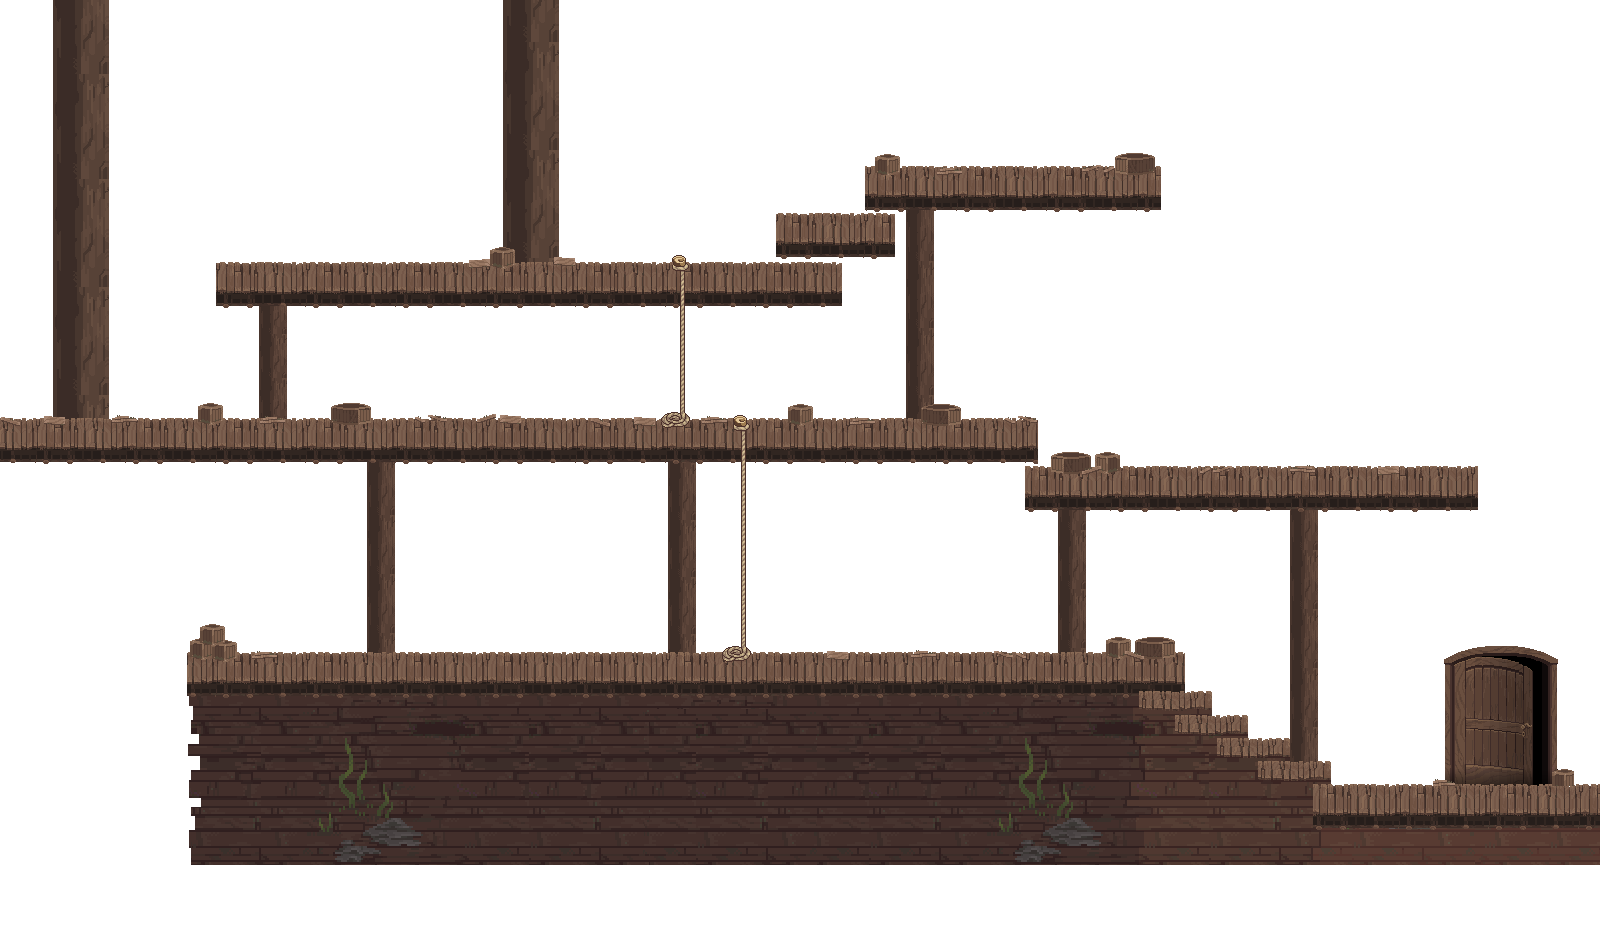
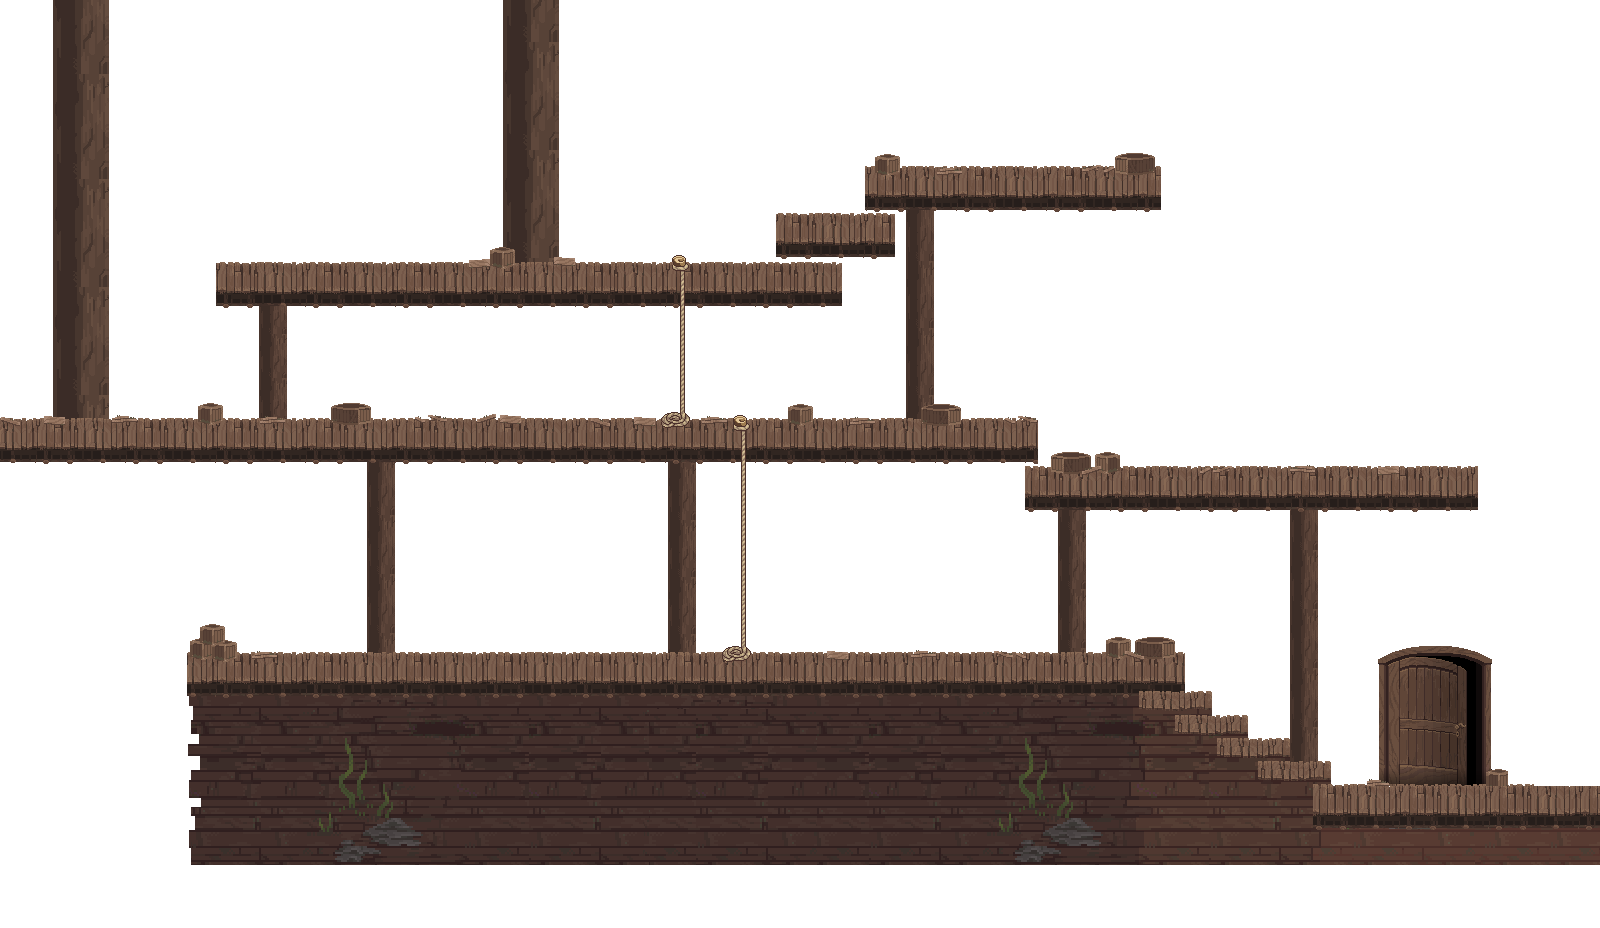
update: game patch 2.3.507 data, assets, and 11th character support
- Spelunking: fix Amber gain to apply full Litterfish (w7a7) card bonus (5%/lv cap 40 + 10%/lv cap 100)
- Dashboard: new-character alert now covers the 11th slot (5000 total levels)
- Sigils: drop redundant hardcoded character cap
- Patch notes entry for 3.3.47 / game 2.3.507
- Regenerated website-data and assets (Dreadnaught Chamber, vial #85, nametag replicas 38-40)

Changed region(s): [[0.8438, 0.6875, 1.0, 0.8438]]

diff --git a/data/patch-notes.js b/data/patch-notes.js
@@ -4,12 +4,26 @@ import React from 'react';
 /* eslint-disable react/jsx-key */
 export const patchNotes = [
   {
+    'ver': '3.3.47',
+    'gameVer': '2.3.507',
+    'date': '29/05/2026',
+    'features': [
+      'Updated the website with version 2.3.507 data and assets',
+      '11th character: the new character slot (unlocks at 5000 total levels) now appears in the "new character available" dashboard alert',
+      'World 6 Dreadnaught Chamber: new map with the Dreadnaught Captain boss and the Abacus Frog, now tracked in the Death Note and Grimoire',
+      'Alchemy: new Ship in a Bottle vial',
+      'Tournament: new Nametag Replicas'
+    ],
+    'fixes': []
+  },
+  {
     'ver': '3.3.46',
     'gameVer': '2.3.505',
     'date': '29/05/2026',
     'features': [
-      <Typography>Guild Tracking is now live — I started tracking the top Legends of Idleon guilds, with snapshots taken every hour. Check it out under <Link
-        href={'https://idleontoolbox.com/guilds'}>Guilds</Link></Typography>,
+      <Typography>Guild Tracking is now live — I started tracking the top Legends of Idleon guilds, with snapshots taken
+        every hour. Check it out under <Link
+          href={'https://idleontoolbox.com/guilds'}>Guilds</Link></Typography>,
       'Browse guilds: search and sort the top guilds by rank, GP, level, or member count; pin your favorites (and your own guild) to keep them at the top',
       'Guild detail pages: this week\'s GP progress charted, with a comparison to the same point last week',
       'Guild detail pages: 30-day guild rank history',
@@ -18,7 +32,7 @@ export const patchNotes = [
       'Guild detail pages: roster changes — who joined and who left this week',
       'Guild Ecosystem: a zoomed-out view of the whole ecosystem — total and active guilds, weekly GP output, and member health across all of Idleon, tracked week over week',
       'Weekly GP resets every Saturday at 21:00 UTC — the guilds page shows a live countdown to the next reset, and "this week" everywhere lines up with that boundary',
-      'Heads-up: data collection only started midway through last week, so "vs last week" comparisons may look inflated for now — they\'ll settle down once there\'s a full week of history to compare against',
+      'Heads-up: data collection only started midway through last week, so "vs last week" comparisons may look inflated for now — they\'ll settle down once there\'s a full week of history to compare against'
     ],
     'fixes': []
   },
@@ -30,10 +44,10 @@ export const patchNotes = [
       'Sneaking: symbol upgrade border now shows on character equipment slots',
       'Sneaking: redesigned per-character info card for a cleaner layout',
       'Bubba: new Mega Flesh row showing all bonuses with unlocked status and totals',
-      'Kangaroo: Mega Fish moved up',
+      'Kangaroo: Mega Fish moved up'
     ],
     'fixes': [
-      'The Jars: "Progress per hour" schematic multiplier now correctly labeled as White Rupies (was misnamed Jars Destroyed)',
+      'The Jars: "Progress per hour" schematic multiplier now correctly labeled as White Rupies (was misnamed Jars Destroyed)'
     ]
   },
   {
@@ -45,7 +59,7 @@ export const patchNotes = [
       'The Jars: new "Total enhancing levels" card, plus a full breakdown on "Progress per hour" showing the base rate, collectible/measurement multiplier (with each contributing jar listed by name), and the jars-destroyed schematic multiplier',
       'Dashboard: new alerts for breakable layers in the Evertree and Bottomless Trench caverns (with toggle entries added via migration 52)',
       'Sailing Artifacts: new tier track on each artifact card showing all 6 tiers (Base → Transcendent) as colored bars, with the current tier label and hover tooltips describing each tier\'s bonus',
-      'Active Calculator: new "Target level" input under the Exp section — shows exp required and ETA to reach any custom level, persisted to localStorage',
+      'Active Calculator: new "Target level" input under the Exp section — shows exp required and ETA to reach any custom level, persisted to localStorage'
     ],
     'fixes': [
       'Sailing: added missing island (The Maw)'
@@ -67,11 +81,11 @@ export const patchNotes = [
       'Tournament: new T2a/T2b/T2c companions (Bronze/Silver/Gold Champion Troll) and hats',
       'Cascading Fountain bonuses applied to: Bravery/Justice/Wisdom monument bonuses, Monument max linear time (Mogmaxing), Harp note EXP (Fine Tuning), Bolaia study rate (Skim Reading), Cosmo villager EXP (Cosmological Boost), class EXP, total damage (Swingy Surge), Orion feather rate, Poppy fish rate, Sailing treasure boost, Motherlode ore requirement, and Well bucket schematic chain',
       'Tome Rankings: new "Sort" dropdown (Default / Lowest percentile / Smallest gap to target — last option enabled when Target % is set)',
-      'Tome Rankings: expanded calculator now shows the max qty needed to fully max a metric, plus the qty required to reach the global target percentile',
+      'Tome Rankings: expanded calculator now shows the max qty needed to fully max a metric, plus the qty required to reach the global target percentile'
     ],
     'fixes': [
       'Family bonuses: growth formula now uses the level above the unlock threshold (level − x3) instead of level − 1, fixing inflated bonuses for entries that unlock past level 1',
-      'Lab line width: now reads each character\'s own lab skill level instead of the lab tube character data, fixing cases where line width was computed from the wrong character',
+      'Lab line width: now reads each character\'s own lab skill level instead of the lab tube character data, fixing cases where line width was computed from the wrong character'
     ]
   },
   {
@@ -84,7 +98,7 @@ export const patchNotes = [
       'Build editor: "Insert item" button still there if you prefer picking from a dialog',
       'Build editor: supports bold (Ctrl+B or **text**), italic (Ctrl+I or *text*), bullet lists (- ), numbered lists (1. ), H3/H4 headings (### , #### ), and links',
       'Build editor: live character counter below each field, placeholder text, auto-link on paste',
-      'Builds: embedded items render with icon + name chips in the published build, with full hover stats (same tooltip as the item database)',
+      'Builds: embedded items render with icon + name chips in the published build, with full hover stats (same tooltip as the item database)'
     ],
     'fixes': []
   },
@@ -99,7 +113,7 @@ export const patchNotes = [
       'Build editor: "Use as template" on any build starts a new one pre-filled with that layout',
       'My builds: new tab groups the builds you\'ve published and the ones you\'ve liked; edit or delete your own at any time',
       'Builds: author name on published builds uses your in-game main character (or "Anonymous" if you toggle it)',
-      'Builds: up to 5 tags per build',
+      'Builds: up to 5 tags per build'
     ],
     'fixes': []
   },
@@ -114,11 +128,11 @@ export const patchNotes = [
       'Tome Rankings: global "Target %" input shows the PTS gap for every metric at once',
       'Tome Rankings: "Group by" selector — group metrics by percentile tier or by customizable classification type (High Priority, Achievable, Time Gated, Luck Gated, Event Gated), saved locally',
       'Tome Rankings: search filter, "Sort by lowest" toggle, and "Hide maxed" option',
-      'Dashboard: new sushi fuel timer showing countdown until fuel reaches max cap',
+      'Dashboard: new sushi fuel timer showing countdown until fuel reaches max cap'
     ],
     'fixes': [
       'Research: observations list now includes all entries instead of stopping at the found count, locked observations shown with reduced opacity',
-      'Sushi Station: knowledge section on bonuses tab now shows for undiscovered sushi too',
+      'Sushi Station: knowledge section on bonuses tab now shows for undiscovered sushi too'
     ]
   },
   {
@@ -129,7 +143,7 @@ export const patchNotes = [
       'Updated the website with version 2.3.503 data and assets',
       'Sushi Station: 5 new sushi tiers (54-58), added event shop bonus to currency multiplier',
       'New sushi bonuses applied to gallery bonus multi, research grid all-multi, sailing boat loot, and farming sticker odds',
-      '3 new companions (Poppy, Wickerlight Spirit, Smoke Devil) with bonuses applied: meal multi, jade/stealth/sneaking XP, monument bonus levels. Mama Troll companion is now active',
+      '3 new companions (Poppy, Wickerlight Spirit, Smoke Devil) with bonuses applied: meal multi, jade/stealth/sneaking XP, monument bonus levels. Mama Troll companion is now active'
     ],
     'fixes': []
   },
@@ -141,11 +155,11 @@ export const patchNotes = [
       'Gem Shop: new "Past limited specials" section listing items that used to exist in the shop (Equinox Penguins, Rupie Slug, etc.) — extracted from historical game versions',
       'Equinox: challenges now show a "Requirements met" highlight on cards that are not in your active 5 but whose goal is already fulfilled',
       'The Harp (Hole cavern): new Strings row showing which in-game note each harp string slot is tuned to',
-      'The Button: new dashboard alerts for insta-skip availability and task-ready states',
+      'The Button: new dashboard alerts for insta-skip availability and task-ready states'
     ],
     'fixes': [
       'Equinox: active challenge count is now capped at 5 to match the game (previously could visually mark more than 5 as active if the "Clouds Owned" upgrade exceeded 5)',
-      'The Button: skill task requirements now use the highest single-character skill level instead of the account-wide total',
+      'The Button: skill task requirements now use the highest single-character skill level instead of the account-wide total'
     ]
   },
   {
@@ -163,7 +177,7 @@ export const patchNotes = [
       'Fixed Minehead depth charges missing superbit, cloud, and jade reductions',
       'Fixed cash multi missing companion 38 coin drop multiplier',
       'Fixed capacity missing bundle bonuses',
-      'Observation rolls alert now hides when all available observations are already found',
+      'Observation rolls alert now hides when all available observations are already found'
     ]
   },
   {
@@ -173,10 +187,10 @@ export const patchNotes = [
     'features': [
       'New date & time preferences in Settings — choose DD/MM or MM/DD date format and 24-hour or 12-hour clock',
       'Preferences are saved automatically and apply across the entire site',
-      'Consolidated the old Data page into Settings — profile management, support data, and local storage options are now all in one place',
+      'Consolidated the old Data page into Settings — profile management, support data, and local storage options are now all in one place'
     ],
     'fixes': [
-      'Removed the standalone Data page (all functionality moved to Settings)',
+      'Removed the standalone Data page (all functionality moved to Settings)'
     ]
   },
   {
@@ -188,11 +202,11 @@ export const patchNotes = [
       'View all 9 bonus categories with current values, per-press rates, and rotation indicator',
       'Browse upcoming tasks with auto-detected best character, pagination by cycle, and future requirement tooltips',
       'Button bonuses are now reflected across 9 parsers (research, minehead, sushi, sailing, summoning, farming, spelunking, cooking, class EXP)',
-      'Companions page now shows all existing companions grouped by category (Legacy, Fallen Spirits, Shallow Waters, Exclusive, Special)',
+      'Companions page now shows all existing companions grouped by category (Legacy, Fallen Spirits, Shallow Waters, Exclusive, Special)'
     ],
     'fixes': [
       'Fixed Sushi Station UpgLvREQ formula (upgrade level requirements were too high)',
-      'Added KillroyBonuses(5) and w7a11 card bonus to Research EXP multiplier',
+      'Added KillroyBonuses(5) and w7a11 card bonus to Research EXP multiplier'
     ]
   },
   {
@@ -203,7 +217,7 @@ export const patchNotes = [
       'Split sushi shaker dashboard alerts into individual toggles (Salt, Pepper, Saffron) so you can enable/disable each one',
       'Added Grand Discovery chance to the Spelunking boss page — shows the per-cave actual chance with diminishing returns',
       'Fixed Grand Discovery chance formula (was missing Chapter Bonus and Minehead/Sushi multipliers)',
-      'Moved Coral Kid Upgrades from Coral Reef (W7) to Divinity (W5) for easier navigation',
+      'Moved Coral Kid Upgrades from Coral Reef (W7) to Divinity (W5) for easier navigation'
     ],
     'fixes': []
   },
@@ -218,11 +232,11 @@ export const patchNotes = [
       'See all "Rest of Game" bonuses with knowledge progress and XP tracking per sushi type',
       'Track your Bucks, Currency/hr, Fuel, and shaker uses (Salt, Pepper, Saffron) at a glance',
       'Dashboard alerts: get notified when fuel is full, shakers are available, or knowledge is ready to level up',
-      'Sushi Station bonuses are now reflected across 15+ pages (damage, research, spelunking, farming, and more)',
+      'Sushi Station bonuses are now reflected across 15+ pages (damage, research, spelunking, farming, and more)'
     ],
     'fixes': [
       'Improved accuracy for Minehead damage (new artifact bonus) and Research grid points',
-      'Added missing equipment bonus (EtcBonus 104) to damage calculations',
+      'Added missing equipment bonus (EtcBonus 104) to damage calculations'
     ]
   },
   {
@@ -244,7 +258,7 @@ export const patchNotes = [
       'Fixed lab bonus computation (jewel multiplier, spelunker obol, species count)',
       'Fixed family bonus level offset calculation',
       'Fixed refinery total levels counting too many salts',
-      'Fixed boat number display in sailing',
+      'Fixed boat number display in sailing'
     ]
   },
   {
@@ -254,13 +268,13 @@ export const patchNotes = [
     'features': [
       'Implemented a navbar banner that appears when viewing another user’s profile',
       'Updated damage, class exp multi, cash multi and respawn rate calculation including a detailed breakdown of all sources 🚀',
-      'Improved website loading speed and responsiveness',
+      'Improved website loading speed and responsiveness'
     ],
     'fixes': [
       'Fixed bits display and notation',
       'Fixed monument cap multiplier logic',
       'Fixed a bug where quests page was displaying empty quest steps',
-      'Many more small fixes and improvements to various calculations',
+      'Many more small fixes and improvements to various calculations'
     ]
   },
   {

diff --git a/parsers/world-7/spelunking.ts b/parsers/world-7/spelunking.ts
@@ -432,7 +432,9 @@ export const getAmberGain = (account: any, loreBonuses: any) => {
   const vialBonus = getVialsBonusByEffect(account?.alchemy?.vials, null, '7amber');
   const mealBonus = getMealsBonusByEffectOrStat(account, null, 'SplkAmb');
   const dancingCoralBonus = getDancingCoralBonus(account, 2, 0);
-  const cardBonus = getCardBonusByEffect(account?.cards, 'Spelunk_Amber_(Passive)');
+  const litterfishCard = Object.values(account?.cards ?? {}).find((c: any) => c?.rawName === 'w7a7');
+  const litterfishLevel = litterfishCard?.amount > 0 ? (litterfishCard?.stars ?? 0) + 1 : 0;
+  const cardBonus = Math.min(5 * litterfishLevel, 40) + Math.min(10 * litterfishLevel, 100);
   const winnerBonus = getWinnerBonus(account, '<x Amber Gain');
   const shopUpg7 = getSpelunkingBonus(account, 7, 1);
   const shopUpg20 = getSpelunkingBonus(account, 20);

diff --git a/utility/dashboard/account.js b/utility/dashboard/account.js
@@ -178,6 +178,9 @@ export const getGeneralAlerts = (account, fields, options, characters) => {
       if (numOfCharacters === 9 && totalLevels >= 1500) {
         newCharactersCounter++;
       }
+      if (numOfCharacters === 10 && totalLevels >= 5000) {
+        newCharactersCounter++;
+      }
       if (newCharactersCounter > 0) {
         etc.newCharacters = newCharactersCounter;
       }

diff --git a/parsers/world-2/alchemy.ts b/parsers/world-2/alchemy.ts
@@ -519,7 +519,7 @@ const parseSigils = (sigilsRaw: any, alchemyActivity: any, serializedCharactersD
     const charactersInSigil = alchemyActivity.filter(({
       activity,
       index
-    }: any) => activity >= 100 && Math.floor(activity - 100) === i / 2 && index < 11 && index < serializedCharactersData?.length);
+    }: any) => activity >= 100 && Math.floor(activity - 100) === i / 2 && index < serializedCharactersData?.length);
     if (sigilData) {
       sigilsList = [
         ...sigilsList,